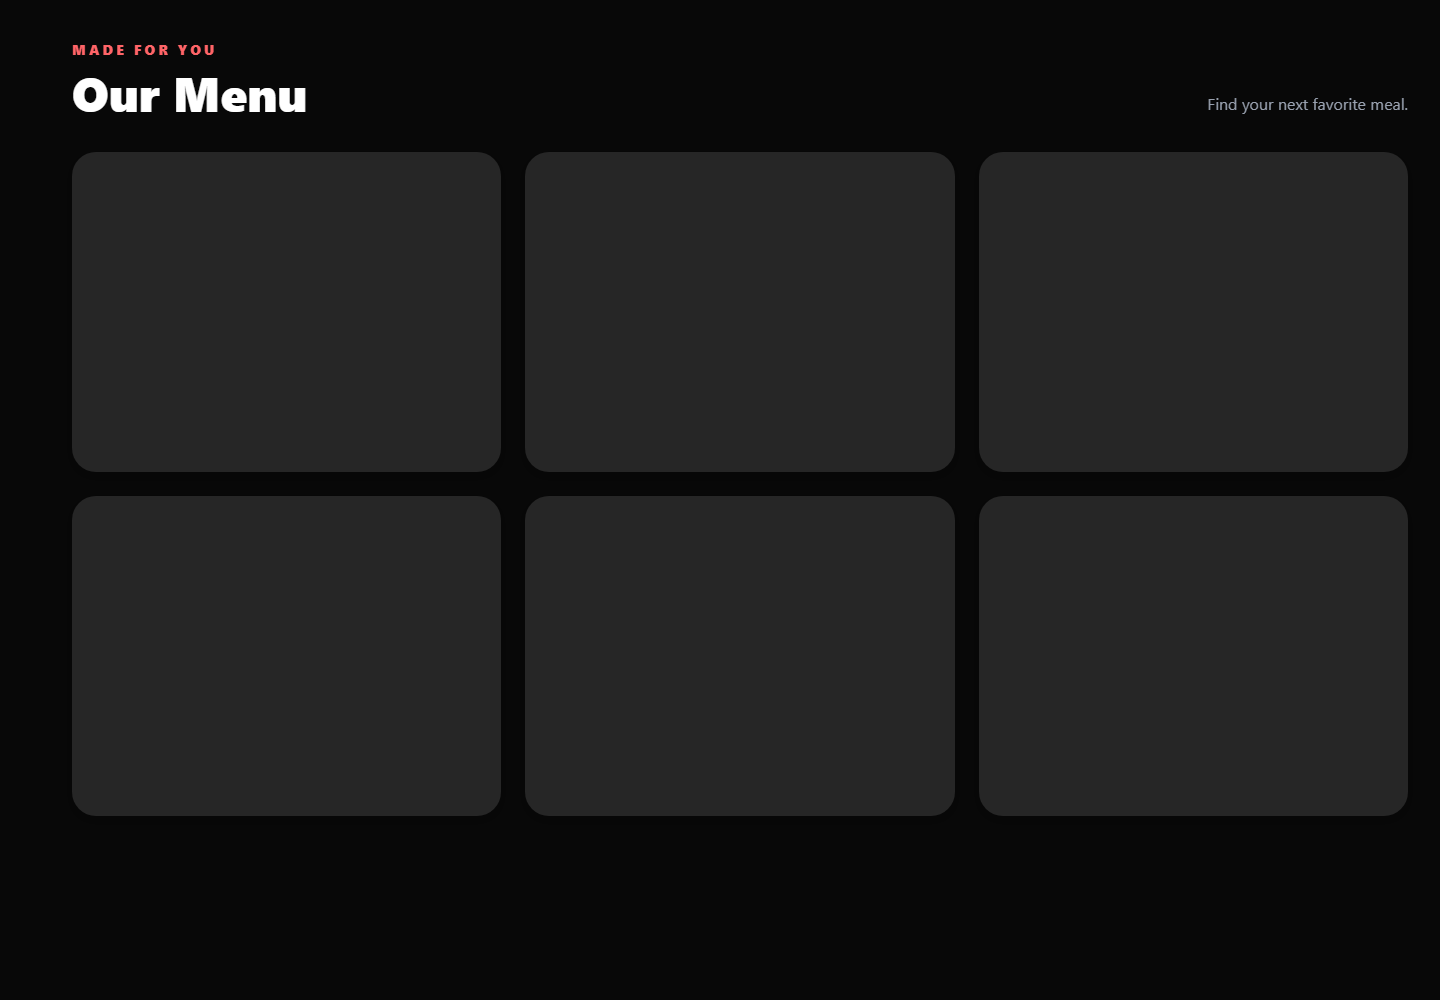
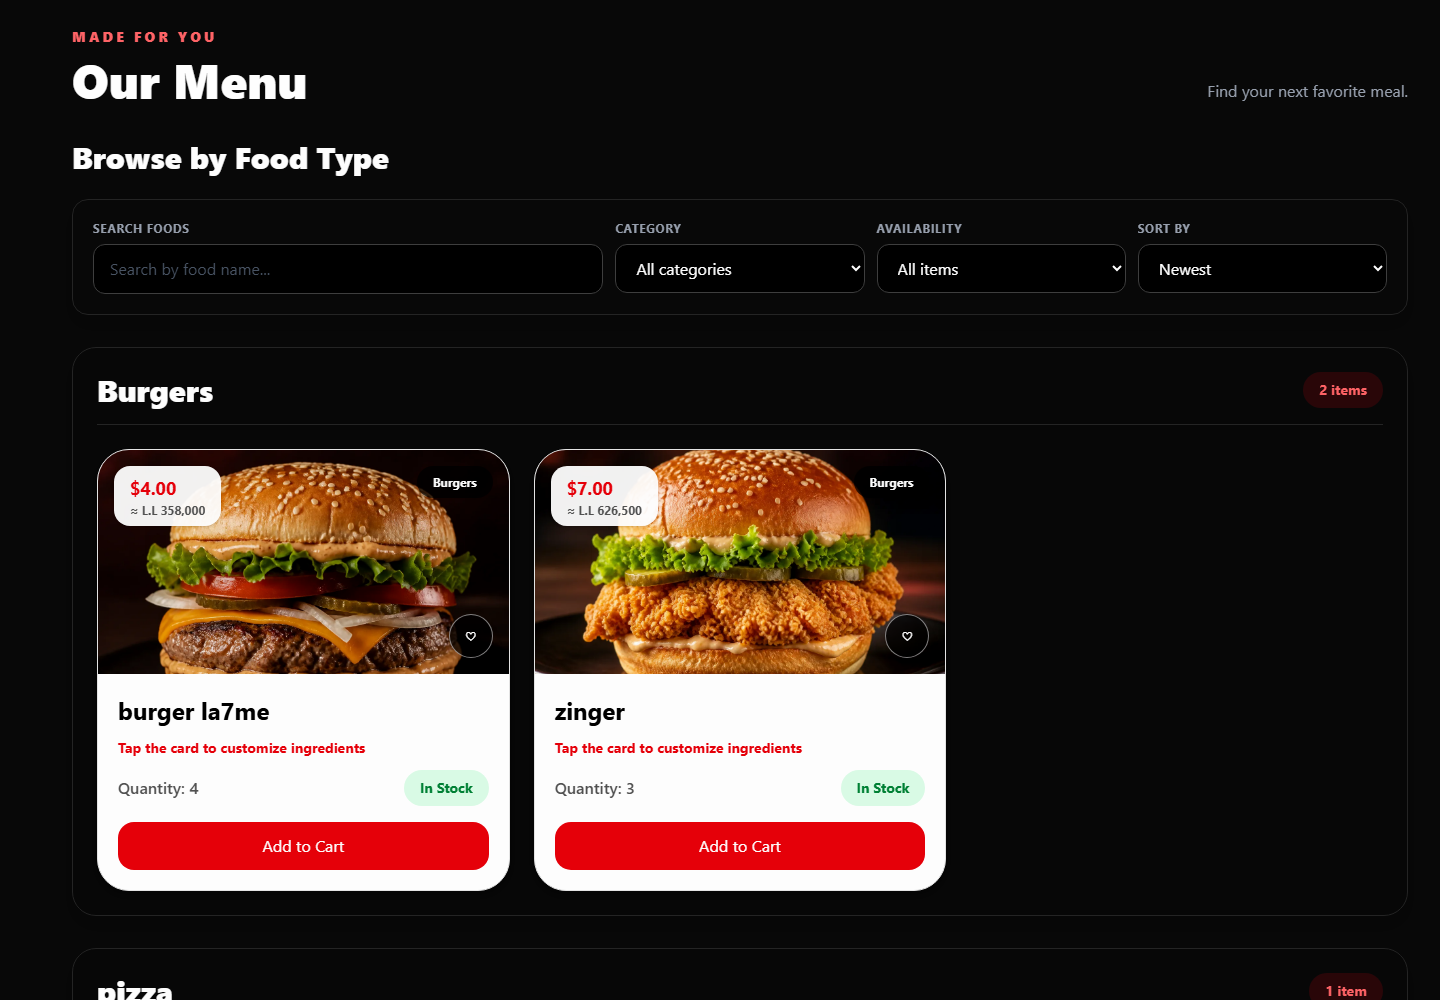
improuve the screenshots

diff --git a/README.md b/README.md
@@ -22,9 +22,21 @@ orders, analytics, and audit records.
 
 ![Shopping cart](docs/screenshots/cart.png)
 
+### Cash-on-Delivery Checkout
+
+![Cash-on-delivery checkout](docs/screenshots/checkout.png)
+
+### Customer Refund Request
+
+![Customer food issue and refund request](docs/screenshots/refund-request.png)
+
 ### Admin Dashboard
 
 ![Admin dashboard](docs/screenshots/admin.png)
+
+### Restaurant Operations
+
+![Delivery zones and overnight opening hours](docs/screenshots/operations.png)
 
 ## Main Features
 
